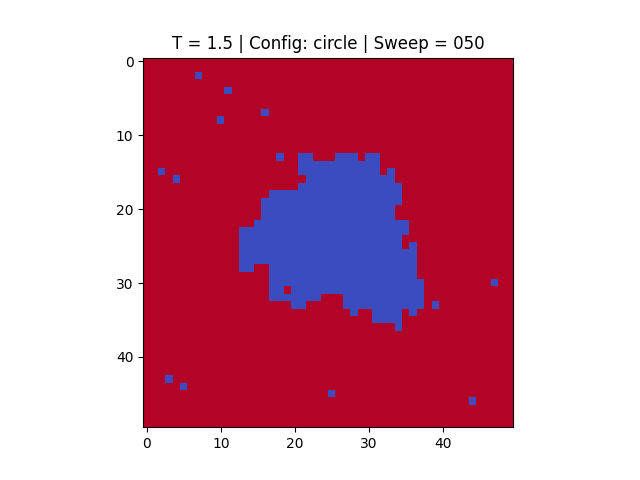
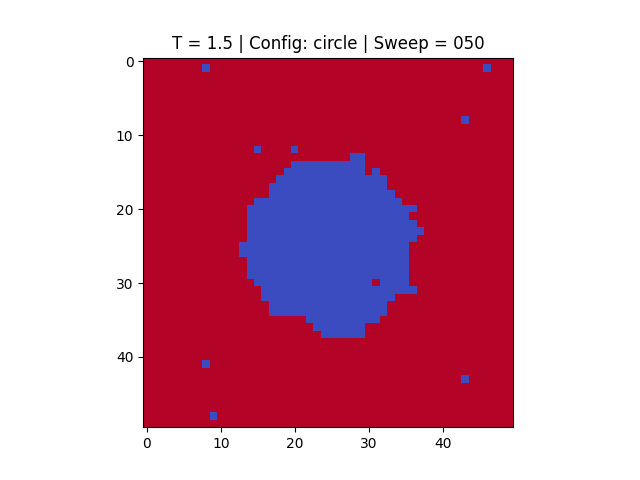
modificata dinamica di Kawisaki, funziona

diff --git a/ISING/Kawisaki.py b/ISING/Kawisaki.py
@@ -4,7 +4,8 @@ import numpy as np
 from Lattice import Lattice
 
 
-def main(T_low, N = 50, num_sweeps = 1000, plot_anim = False, T_high = None, stepsize = None):
+#def main(T_low, N = 50, num_sweeps = 1000, plot_anim = False, T_high = None, stepsize = None):
+def main(T, N, num_sweeps, plot_anim = False, start_config = "uniform"):
     """
     Function to run Kawasaki dynamics on an ising lattice.
 
@@ -33,17 +34,18 @@ def main(T_low, N = 50, num_sweeps = 1000, plot_anim = False, T_high = None, ste
 
     """
 
-    #check if a range or T are to be evaluated
-    if T_high is not None and stepsize is not None:
-        #nte that a range isnt wanted, to be used later
-        rang = True
-        #make required range
-        T_arr = np.arange(T_low, T_high, stepsize)
+    # #check if a range or T are to be evaluated
+    # if T_high is not None and stepsize is not None:
+    #     #nte that a range isnt wanted, to be used later
+    #     rang = True
+    #     #make required range
+    #     T_arr = np.arange(T_low, T_high, stepsize)
 
-    if T_high is None or stepsize is None:
-        #range isnt required
-        rang = False
-        T_arr = np.asarray([float(T_low)])
+    # if T_high is None or stepsize is None:
+    #     #range isnt required
+    #     rang = False
+    #     T_arr = np.asarray([float(T_low)])
+    #                                          anche qui, questo blocco gestisce i range di temperatura
 
 
 
@@ -53,29 +55,37 @@ def main(T_low, N = 50, num_sweeps = 1000, plot_anim = False, T_high = None, ste
     wait_sweeps = 100
     if wait_sweeps >= num_sweeps:
         wait_sweeps = num_sweeps//10
-    
-    #loop through temperatures
-    lattices = []
-    for count, T in enumerate(T_arr):
-
-        #if temperature = 1, assume ground state
-        if T == 1:
-            L = Lattice(N,T, dynamics = "Kawasaki", lattice = "halved")
-        else:
-            #use starting lattice from end of last lattice if not first loop
-            if count !=0:
-                L = Lattice(N,T, dynamics = "Kawasaki", lattice = lattices[-1].lattice)
-            #if first loop assume uniform distribution
-            else:
-                L = Lattice(N,T, dynamics = "Kawasaki", lattice = "uniform")
-
-        #run simulation
-        L.run(wait_sweeps = wait_sweeps , num_tot_sweeps = num_sweeps , plot_anim = plot_anim)
-        
-        lattices.append(L)
-        
 
     
+    # #loop through temperatures
+    # lattices = []
+    # for count, T in enumerate(T_arr):
+
+    #     #if temperature = 1, assume ground state
+    #     if T == 1:
+    #         L = Lattice(N,T, dynamics = "Kawasaki", lattice = "halved")
+    #     else:
+    #         #use starting lattice from end of last lattice if not first loop
+    #         if count !=0:
+    #             L = Lattice(N,T, dynamics = "Kawasaki", lattice = lattices[-1].lattice)
+    #         #if first loop assume uniform distribution
+    #         else:
+    #             L = Lattice(N,T, dynamics = "Kawasaki", lattice = "uniform")
+
+    #     #run simulation
+    #     L.run(wait_sweeps = wait_sweeps , num_tot_sweeps = num_sweeps , plot_anim = plot_anim)
+        
+    #     lattices.append(L)
+    #                           tutto questo blocco sceglie in automatico le config. in base alla temperatura, non è ciò che voglio    
+
+    
+
+    L = Lattice(N, T, dynamics="Kawasaki", lattice=start_config)
+    L.run(wait_sweeps=wait_sweeps, num_tot_sweeps=num_sweeps, plot_anim=plot_anim)
+
+    lattices = [L]
+    T_arr = [T]  # Serve a np.savetxt in fondo per salvare la temperatura T
+
     
     susc_list = []
     hc_list = []
@@ -104,34 +114,29 @@ def main(T_low, N = 50, num_sweeps = 1000, plot_anim = False, T_high = None, ste
 
     return
   
- 
- 
- 
- 
- 
- 
- 
 
 
 
+# if __name__ == "__main__":            vecchia funzione di gestione di imput per dinamica id kawisaki
+
+#     #if incorrect number of arguments are given, state what arguments are expected for which process
+#     if len(sys.argv) != 7 and len(sys.argv) != 5:
+#         print("Usage for a single T: \n T (float), N (int), num_sweeps (int), plot_anim (bool)")
+#         print("Usage for a range of T: \n T_low (float), N (int), num_sweeps (int), plot_anim (bool), T_high (float), stepsize (int)")
+#         print("For further usage instructions, see README or documentation")
+#         sys.exit(1)
+
+#     #if only one Temperature is to be evaluated
+#     elif len(sys.argv) == 5:
+#         main(float(sys.argv[1]), int(sys.argv[2]), int(sys.argv[3]), eval(sys.argv[4]))
+#     #if a range of temperatures re to be evaluated
+#     elif len(sys.argv) == 7:
+#         main(float(sys.argv[1]), int(sys.argv[2]), int(sys.argv[3]), eval(sys.argv[4]), float(sys.argv[5]), float(sys.argv[6]))
 
 if __name__ == "__main__":
-
-
-
-
-
-    #if incorrect number of arguments are given, state what arguments are expected for which process
-    if len(sys.argv) != 7 and len(sys.argv) != 5:
-        print("Usage for a single T: \n T (float), N (int), num_sweeps (int), plot_anim (bool)")
-        print("Usage for a range of T: \n T_low (float), N (int), num_sweeps (int), plot_anim (bool), T_high (float), stepsize (int)")
-        print("For further usage instructions, see README or documentation")
+    if len(sys.argv) != 6:
+        print("Uso corretto: python3 Kawasaki.py <T> <N> <num_sweeps> <Plot(True/False)> <Configurazione>")
         sys.exit(1)
 
-    #if only one Temperature is to be evaluated
-    elif len(sys.argv) == 5:
-        main(float(sys.argv[1]), int(sys.argv[2]), int(sys.argv[3]), eval(sys.argv[4]))
-    #if a range of temperatures re to be evaluated
-    elif len(sys.argv) == 7:
-        main(float(sys.argv[1]), int(sys.argv[2]), int(sys.argv[3]), eval(sys.argv[4]), float(sys.argv[5]), float(sys.argv[6]))
-
+    # Legge i 5 parametri passedi via CLI
+    main(float(sys.argv[1]), int(sys.argv[2]), int(sys.argv[3]), eval(sys.argv[4]), sys.argv[5])
